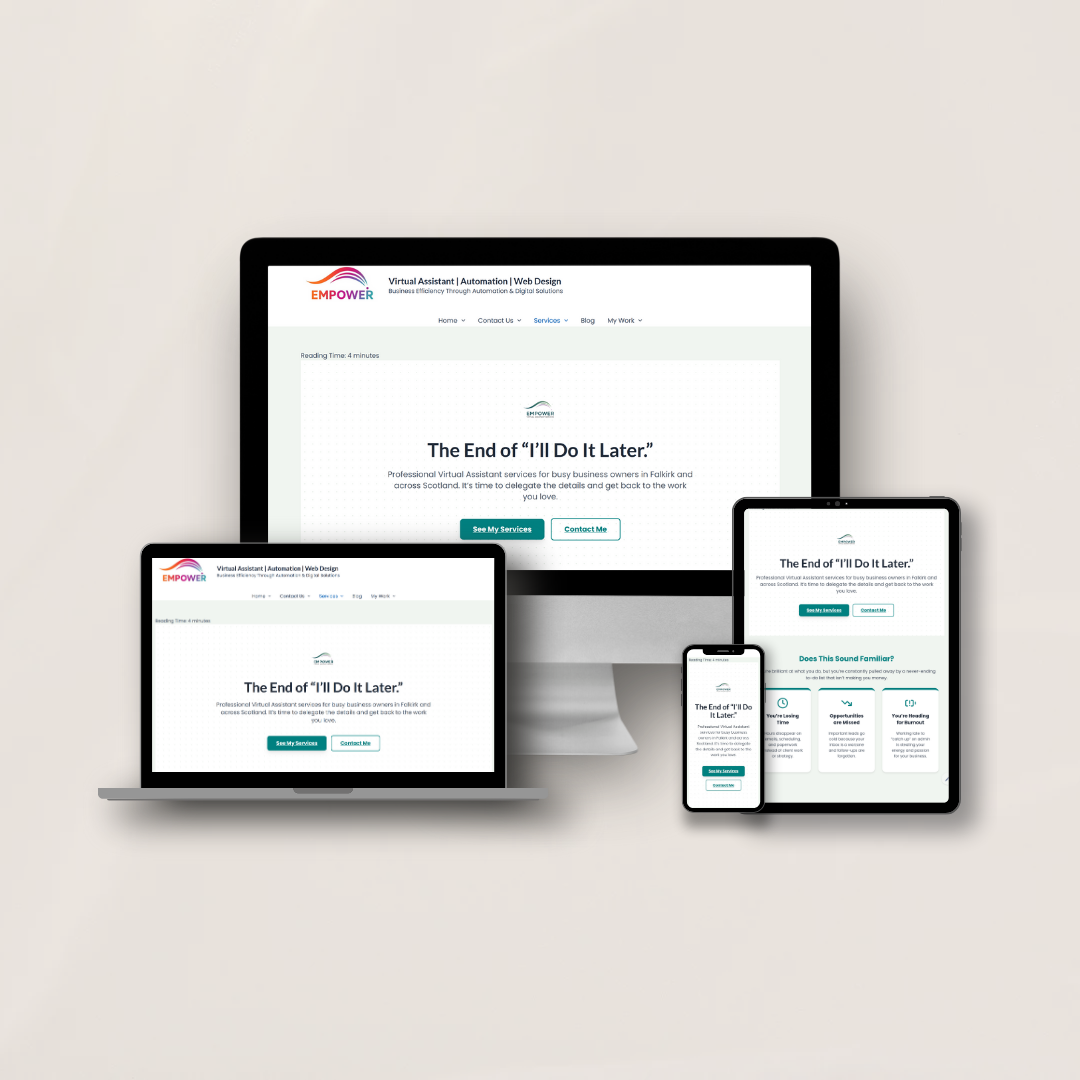
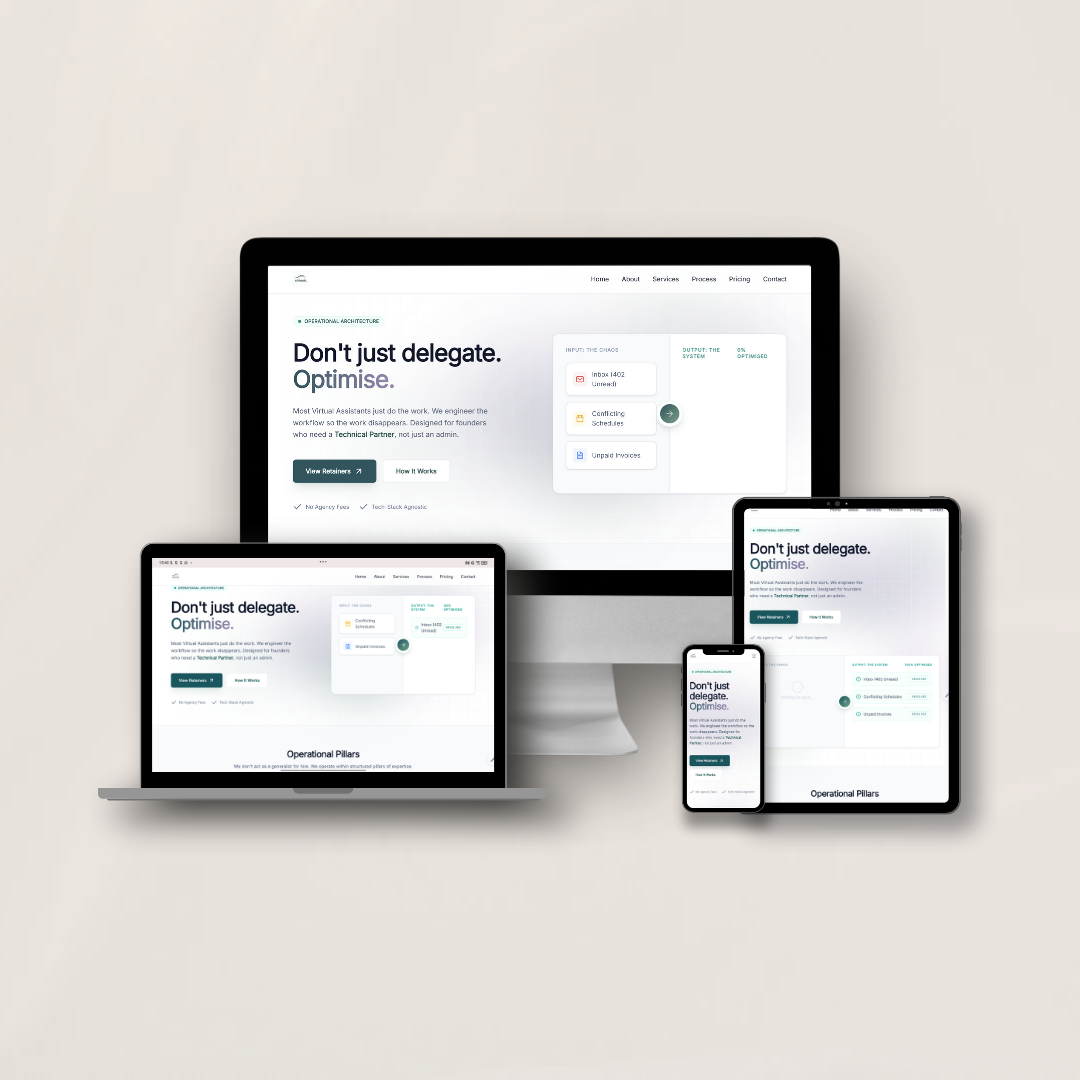
update images2

diff --git a/data/projects.ts b/data/projects.ts
@@ -583,13 +583,13 @@ export const projects: Project[] = [
     ],
     year: "2025",
     type: "website",
-    techStack: ["Web Design", "CMS"],
+   techStack: ["Astro", "React Islands", "PDF Generation", "Framer Motion"],
     status: "live",
-    liveUrl: "https://empowervaservices.co.uk",
+    liveUrl: "https://virtual-assistant-services-7ynr.vercel.app/",
     audiences: ["client"],
-    overview: "The digital storefront for my Virtual Assistant business. Targeted at busy professionals needing to stop juggling tasks, it highlights general admin duties and offers a friendly, reliable support system.",
-    contributions: ["Web Design", "Branding", "Content Writing"],
-    highlights: ["Service Breakdown", "Client Onboarding Flow"],
+    overview: "A functional web application that serves as both a high-performance marketing site and a client-side operational command center. Built with Astro's Islands Architecture, it showcases the ability to integrate complex, stateful tools (like a time logger and PDF generators) into a static, SEO-friendly environment. Localized for the UK market.",
+    contributions: ["Hybrid Astro/React Architecture", "PDF Generation Pipeline", "Admin Suite Component Design"],
+    highlights: ["Interactive Eisenhower Matrix", "Automated PDF Document Generation", "Client Intake Wizard", "High-Performance SEO (Astro)"],
   },
   {
     slug: "empower-automation",
@@ -613,9 +613,9 @@ export const projects: Project[] = [
     slug: "empower-digital",
     title: "Empower Digital Solutions",
     shortTagline: "Custom Code & Scale",
-    thumbnail: "/empowerdigitalthumbnail.png",
+    thumbnail: "/empowerdigitalithumbnail.png",
     gallery: [
-      "/empowerdigitalthumbnail.png"
+      "/empowerdigitalithumbnail.png"
     ],
     year: "2025",
     type: "website",
